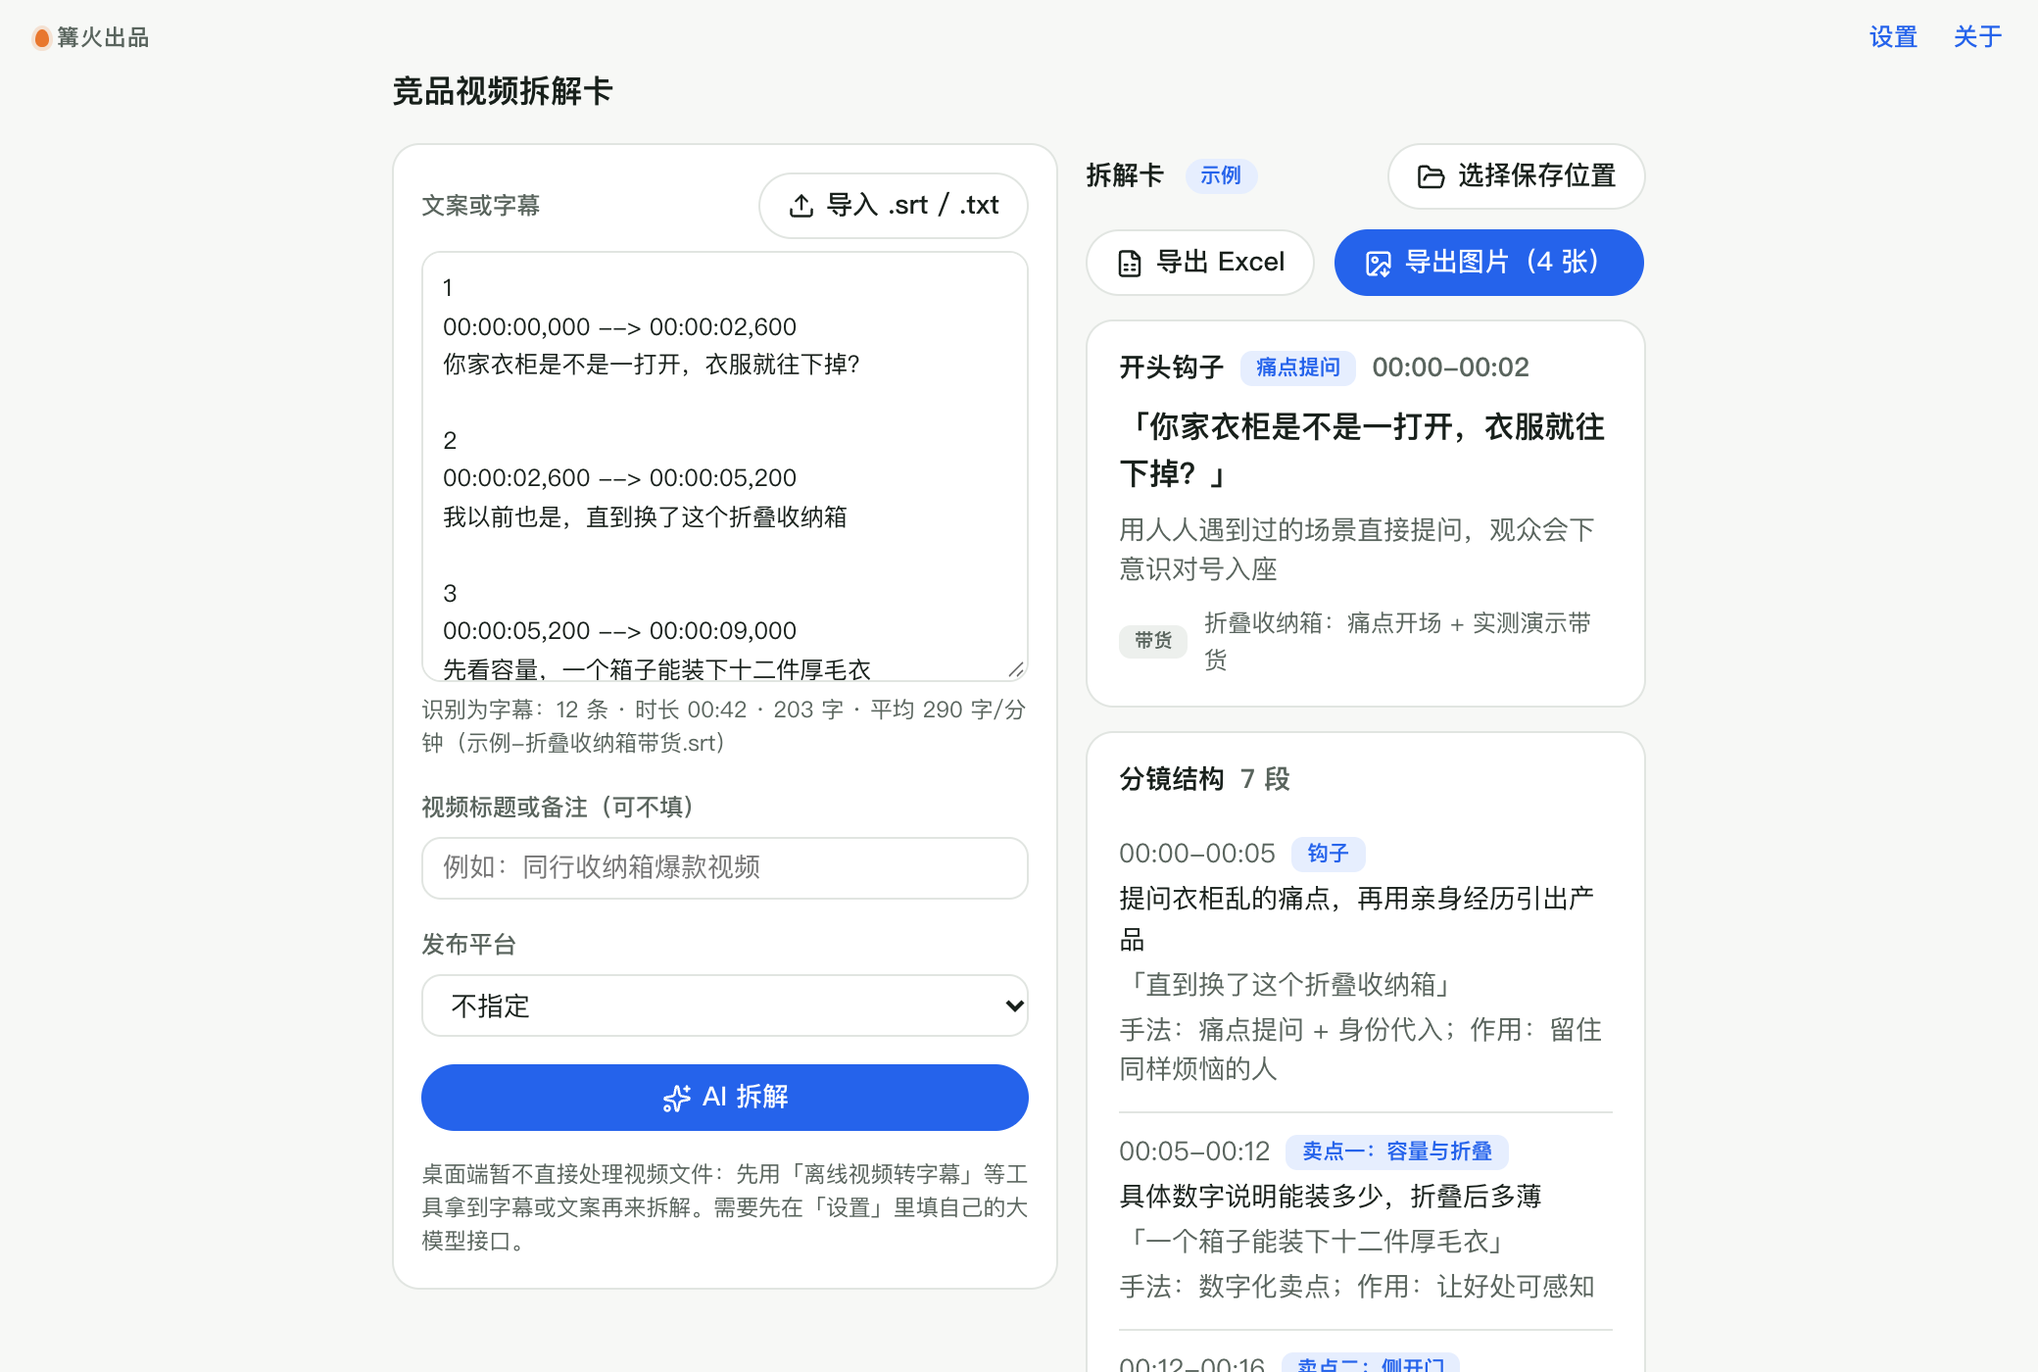
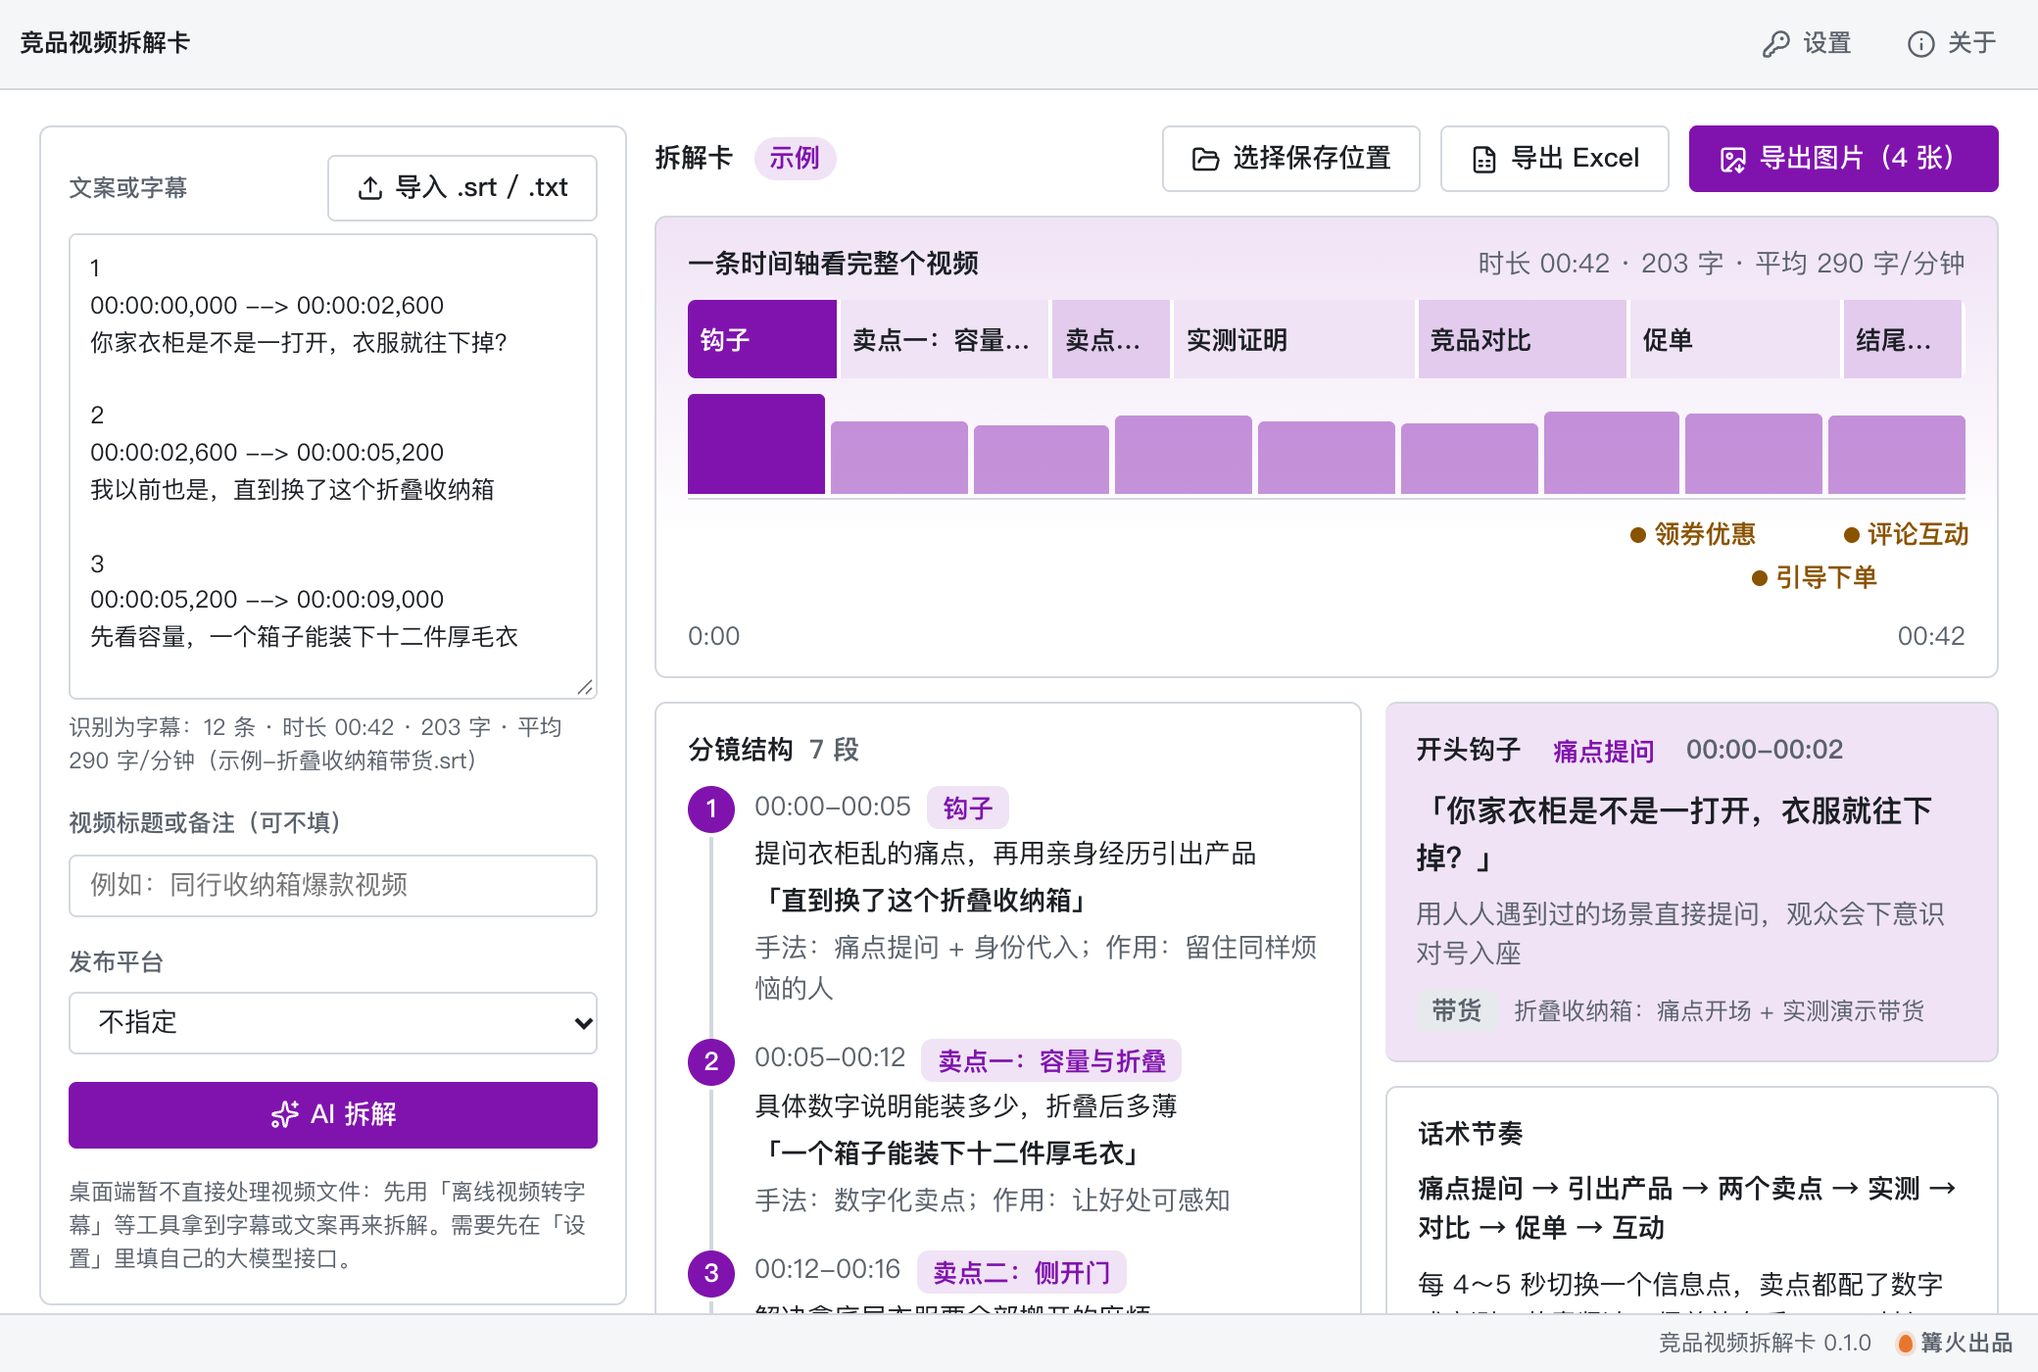
打磨界面：视频时间轴与分镜时间线，升至 0.2.0

diff --git a/src/tool/Main.tsx b/src/tool/Main.tsx
@@ -206,54 +206,60 @@ export function Main({ ctx }: { ctx?: Ctx }) {
         )}
         {!bd ? <div className="k-panel vb-empty k-muted">粘贴文案或导入字幕后，点「AI 拆解」</div> : (
           <>
-            <div className="k-panel vb-card vb-hook">
-              <div className="vb-h">开头钩子 {bd.hook.type && <span className="vb-tag">{bd.hook.type}</span>}{bd.hook.time && <span className="k-muted k-num">{bd.hook.time}</span>}</div>
-              <p className="vb-quote">「{bd.hook.text || '没有识别到明显的开头钩子'}」</p>
-              {bd.hook.why && <p className="k-muted">{bd.hook.why}</p>}
-              <div className="vb-title k-muted">{bd.genre && <span className="vb-tag soft">{bd.genre}</span>}{bd.title}</div>
-            </div>
+            <Timeline bd={bd} stats={result!.stats} />
 
-            <div className="k-panel vb-card">
-              <div className="vb-h">分镜结构 <span className="k-muted k-num">{bd.shots.length} 段</span></div>
-              <div className="vb-shots">
-                {bd.shots.map((s, i) => (
-                  <div key={i} className="vb-shot">
-                    <div className="vb-shot-head"><span className="k-num k-muted">{s.time || i + 1}</span>{s.stage && <span className="vb-tag">{s.stage}</span>}</div>
-                    <div>{s.content}</div>
-                    {s.line && <div className="k-muted">「{s.line}」</div>}
-                    {(s.technique || s.purpose) && <div className="k-muted">{[s.technique && `手法：${s.technique}`, s.purpose && `作用：${s.purpose}`].filter(Boolean).join('；')}</div>}
+            <div className="vb-cols">
+              <div className="k-panel vb-card vb-shotcard">
+                <div className="vb-h">分镜结构 <span className="k-muted k-num">{bd.shots.length} 段</span></div>
+                <ol className="vb-shots">
+                  {bd.shots.map((s, i) => (
+                    <li key={i} className="vb-shot">
+                      <span className="vb-dot" aria-hidden>{i + 1}</span>
+                      <div className="vb-shot-body">
+                        <div className="vb-shot-head"><span className="k-num k-muted">{s.time || `第 ${i + 1} 段`}</span>{s.stage && <span className="vb-tag">{s.stage}</span>}</div>
+                        <div>{s.content}</div>
+                        {s.line && <div className="vb-line">「{s.line}」</div>}
+                        {(s.technique || s.purpose) && <div className="k-muted">{[s.technique && `手法：${s.technique}`, s.purpose && `作用：${s.purpose}`].filter(Boolean).join('；')}</div>}
+                      </div>
+                    </li>
+                  ))}
+                </ol>
+              </div>
+
+              <div className="vb-side">
+                <div className="k-panel vb-card vb-hook">
+                  <div className="vb-h">开头钩子 {bd.hook.type && <span className="vb-tag">{bd.hook.type}</span>}{bd.hook.time && <span className="k-muted k-num">{bd.hook.time}</span>}</div>
+                  <p className="vb-quote">「{bd.hook.text || '没有识别到明显的开头钩子'}」</p>
+                  {bd.hook.why && <p className="k-muted">{bd.hook.why}</p>}
+                  <div className="vb-title k-muted">{bd.genre && <span className="vb-tag soft">{bd.genre}</span>}{bd.title}</div>
+                </div>
+
+                <div className="k-panel vb-card">
+                  <div className="vb-h">话术节奏</div>
+                  {bd.rhythm.structure && <p><b>{bd.rhythm.structure}</b></p>}
+                  {bd.rhythm.summary && <p>{bd.rhythm.summary}</p>}
+                  {bd.rhythm.notes.length > 0 && <ul className="vb-list">{bd.rhythm.notes.map((n, i) => <li key={i}>{n}</li>)}</ul>}
+                </div>
+
+                <div className="k-panel vb-card">
+                  <div className="vb-h">转化点 <span className="k-muted k-num">{bd.conversions.length} 处</span></div>
+                  {bd.conversions.length ? bd.conversions.map((c, i) => (
+                    <div key={i} className="vb-conv">
+                      <div><span className="vb-tag warm">{c.type || '转化'}</span> <span className="k-muted k-num">{c.time}</span></div>
+                      <div>「{c.line}」</div>
+                      {c.tip && <div className="k-muted">{c.tip}</div>}
+                    </div>
+                  )) : <p className="k-muted">没有明显的转化点</p>}
+                </div>
+
+                {bd.takeaways.length > 0 && (
+                  <div className="k-panel vb-card">
+                    <div className="vb-h">可以借鉴</div>
+                    <ol className="vb-list">{bd.takeaways.map((t, i) => <li key={i}>{t}</li>)}</ol>
                   </div>
-                ))}
+                )}
               </div>
             </div>
-
-            <div className="vb-two">
-              <div className="k-panel vb-card">
-                <div className="vb-h">话术节奏</div>
-                <div className="k-muted k-num">{result!.stats.durationMs ? `时长 ${fmtTime(result!.stats.durationMs)} · ${result!.stats.words} 字 · 平均 ${result!.stats.perMinute} 字/分钟` : `${result!.stats.words} 字 · 纯文案不计算语速`}</div>
-                {bd.rhythm.structure && <p><b>{bd.rhythm.structure}</b></p>}
-                {result!.stats.pace.length > 1 && <PaceBars pace={result!.stats.pace} />}
-                {bd.rhythm.summary && <p>{bd.rhythm.summary}</p>}
-                {bd.rhythm.notes.length > 0 && <ul className="vb-list">{bd.rhythm.notes.map((n, i) => <li key={i}>{n}</li>)}</ul>}
-              </div>
-              <div className="k-panel vb-card">
-                <div className="vb-h">转化点 <span className="k-muted k-num">{bd.conversions.length} 处</span></div>
-                {bd.conversions.length ? bd.conversions.map((c, i) => (
-                  <div key={i} className="vb-conv">
-                    <div><span className="vb-tag">{c.type || '转化'}</span> <span className="k-muted k-num">{c.time}</span></div>
-                    <div>「{c.line}」</div>
-                    {c.tip && <div className="k-muted">{c.tip}</div>}
-                  </div>
-                )) : <p className="k-muted">没有明显的转化点</p>}
-              </div>
-            </div>
-
-            {bd.takeaways.length > 0 && (
-              <div className="k-panel vb-card">
-                <div className="vb-h">可以借鉴</div>
-                <ol className="vb-list">{bd.takeaways.map((t, i) => <li key={i}>{t}</li>)}</ol>
-              </div>
-            )}
 
             <div className="vb-h">图片预览 <span className="k-muted k-num">{pages.length} 张 · 1080×1440</span></div>
             <div className="vb-grid">
@@ -277,6 +283,46 @@ export function Main({ ctx }: { ctx?: Ctx }) {
         </div>
       )}
     </div>
+  );
+}
+
+/** 把「00:05-00:12」这类时间段转成秒；读不出来返回 null */
+function parseRange(t: string): [number, number] | null {
+  const m = t.match(/(\d+):(\d+)(?::(\d+))?\s*[-–—~～]\s*(\d+):(\d+)(?::(\d+))?/);
+  if (!m) return null;
+  const sec = (a: string, b: string, c?: string) => (c == null ? Number(a) * 60 + Number(b) : Number(a) * 3600 + Number(b) * 60 + Number(c));
+  return [sec(m[1], m[2], m[3]), sec(m[4], m[5], m[6])];
+}
+
+/** 整条视频一条时间轴：上面是分镜段，中间是语速，下面标出转化点 */
+function Timeline({ bd, stats }: { bd: Breakdown; stats: Stats }) {
+  const segs = bd.shots.map((s) => parseRange(s.time));
+  if (!bd.shots.length || segs.some((x) => !x)) return null;
+  const ranges = segs as [number, number][];
+  const total = Math.max(1, stats.durationMs ? stats.durationMs / 1000 : 0, ...ranges.map((r) => r[1]));
+  const pct = (v: number) => `${Math.min(100, (v / total) * 100)}%`;
+  const pins = bd.conversions.map((c) => ({ c, at: parseRange(c.time)?.[0] })).filter((x): x is { c: Breakdown['conversions'][number]; at: number } => x.at != null);
+  return (
+    <section className="k-panel vb-tl" aria-label="视频时间轴">
+      <div className="vb-tl-hd">
+        <b>一条时间轴看完整个视频</b>
+        <span className="k-muted k-num">{stats.durationMs ? `时长 ${fmtTime(stats.durationMs)} · ${stats.words} 字 · 平均 ${stats.perMinute} 字/分钟` : `${stats.words} 字`}</span>
+      </div>
+      <div className="vb-tl-track">
+        {ranges.map(([from, to], i) => (
+          <div key={i} className={`vb-seg${i === 0 ? ' first' : ''}`} style={{ left: pct(from), width: pct(Math.max(0, to - from)) }} title={`${bd.shots[i].time} ${bd.shots[i].stage}`}>
+            <span>{bd.shots[i].stage || i + 1}</span>
+          </div>
+        ))}
+      </div>
+      {stats.pace.length > 1 && <PaceBars pace={stats.pace} />}
+      {pins.length > 0 && (
+        <div className="vb-tl-pins">
+          {pins.map(({ c, at }, i) => <span key={i} className={`vb-pin${at / total > 0.95 ? ' end' : ''}`} style={{ left: pct(at), top: (i % 2) * 22 }} title={`${c.time} ${c.line}`}><i />{c.type || '转化'}</span>)}
+        </div>
+      )}
+      <div className="vb-tl-axis k-num k-muted"><span>0:00</span><span>{fmtTime(total * 1000)}</span></div>
+    </section>
   );
 }
 

diff --git a/src/tool/tool.css b/src/tool/tool.css
@@ -1,10 +1,10 @@
 /* 竞品视频拆解卡：只用 kit.css 的变量，类名以 vb- 开头 */
-.vb { flex: 1; display: grid; grid-template-columns: minmax(260px, 340px) minmax(0, 1fr); gap: 14px; align-items: start; min-height: 0; }
+.vb { flex: 1; font-size: 13.5px; display: grid; grid-template-columns: minmax(250px, 300px) minmax(0, 1fr); gap: 14px; align-items: start; min-height: 0; }
 .vb-hover .vb-edit { outline: 2px dashed var(--primary); outline-offset: 2px; }
 .vb-edit { position: sticky; top: 0; display: flex; flex-direction: column; gap: 14px; padding: 14px; max-height: 100%; }
 .vb-grow { flex: 1; min-height: 0; }
 .vb-row { display: flex; align-items: center; gap: 10px; flex-wrap: wrap; }
-.vb-text { min-height: 220px; height: 40vh; resize: vertical; font-size: .9em; font-family: inherit; line-height: 1.55; }
+.vb-text { min-height: 160px; height: 34vh; resize: vertical; font-size: .9em; font-family: inherit; line-height: 1.55; }
 .vb-go { justify-content: center; }
 .vb-view { display: flex; flex-direction: column; gap: 12px; min-width: 0; }
 .vb-dir { max-width: min(300px, 100%); }
@@ -18,9 +18,6 @@
 .vb-title { display: flex; align-items: center; gap: 8px; font-size: .9em; }
 .vb-tag { display: inline-block; font-size: .8em; font-weight: 600; padding: 1px 8px; border-radius: 6px; background: var(--primary-soft); color: var(--primary); white-space: nowrap; }
 .vb-tag.soft { background: var(--chip); color: var(--muted); }
-.vb-shots { display: grid; }
-.vb-shot { display: grid; gap: 3px; padding: 10px 0; border-top: 1px solid var(--line); line-height: 1.5; }
-.vb-shot:first-child { border-top: 0; }
 .vb-shot-head { display: flex; align-items: center; gap: 8px; flex-wrap: wrap; }
 .vb-two { display: grid; grid-template-columns: repeat(auto-fit, minmax(260px, 1fr)); gap: 12px; align-items: start; }
 .vb-list { margin: 0; padding-left: 1.3em; display: grid; gap: 4px; line-height: 1.5; }
@@ -40,3 +37,31 @@
 .vb-zoom-box canvas { height: min(72vh, 900px); width: auto; aspect-ratio: 3 / 4; border-radius: var(--radius); border: 1px solid var(--line); }
 .vb-zoom-bar { justify-content: center; }
 @media (max-width: 760px) { .vb { grid-template-columns: 1fr; } .vb-edit { position: static; } }
+
+/* 时间轴：分镜段 + 语速 + 转化点 */
+.vb-tl { padding: 14px 16px 10px; display: grid; gap: 8px; background: linear-gradient(180deg, var(--primary-soft), var(--surface) 70%); }
+.vb-tl-hd { display: flex; align-items: baseline; justify-content: space-between; gap: 10px; flex-wrap: wrap; }
+.vb-tl-track { position: relative; height: 40px; border-radius: var(--radius); background: var(--chip); overflow: hidden; }
+.vb-seg { position: absolute; top: 0; bottom: 0; display: flex; align-items: center; padding: 0 6px; border-right: 2px solid var(--surface); background: color-mix(in srgb, var(--primary) 22%, var(--surface)); color: var(--ink); font-size: 13px; font-weight: 600; overflow: hidden; }
+.vb-seg:nth-child(even) { background: color-mix(in srgb, var(--primary) 12%, var(--surface)); }
+.vb-seg.first { background: var(--primary); color: var(--on-primary); }
+.vb-seg span { overflow: hidden; text-overflow: ellipsis; white-space: nowrap; }
+.vb-tl .vb-pace { height: 54px; }
+.vb-tl-pins { position: relative; height: 44px; }
+.vb-pin { position: absolute; top: 0; display: inline-flex; align-items: center; gap: 4px; white-space: nowrap; font-size: 13px; font-weight: 600; color: var(--warn); transform: translateX(0); }
+.vb-pin i { width: 8px; height: 8px; border-radius: 50%; background: var(--warn); }
+.vb-pin.end { transform: translateX(-100%); flex-direction: row-reverse; }
+.vb-tl-axis { display: flex; justify-content: space-between; font-size: 13px; }
+
+.vb-cols { display: grid; grid-template-columns: minmax(0, 1.15fr) minmax(0, 1fr); gap: 12px; align-items: start; }
+.vb-side { display: grid; gap: 12px; min-width: 0; }
+.vb-shots { list-style: none; margin: 0; padding: 0; display: grid; }
+.vb-shot { display: grid; grid-template-columns: 24px minmax(0, 1fr); gap: 10px; padding: 0; border: 0; position: relative; }
+.vb-shot:not(:last-child)::before { content: ""; position: absolute; left: 11px; top: 26px; bottom: 0; width: 2px; background: var(--line); }
+.vb-dot { width: 24px; height: 24px; border-radius: 50%; background: var(--primary); color: var(--on-primary); display: grid; place-items: center; font-size: 13px; font-weight: 700; }
+.vb-shot-body { display: grid; gap: 3px; padding-bottom: 14px; line-height: 1.55; min-width: 0; }
+.vb-line { font-weight: 600; }
+.vb-tag.warm { background: var(--warn-soft); color: var(--warn); }
+.vb-tag, .vb-badge { font-size: 13px; }
+.vb-hook { border-left: 0; background: var(--primary-soft); }
+@media (max-width: 900px) { .vb-cols { grid-template-columns: 1fr; } }

diff --git a/src/tool/core.ts b/src/tool/core.ts
@@ -198,6 +198,7 @@ export function buildMessages(s: Script, stats: Stats, opts: AnalyzeOpts) {
   const meta = [
     opts.note.trim() ? `视频标题或备注：${opts.note.trim()}` : '',
     platform ? `发布平台：${platform}` : '',
+    // check-zh: 忽略（写给大模型的提示词，字段名必须与解析代码一致）
     s.kind === 'srt' ? `输入是带时间轴的字幕，时长 ${fmtTime(s.durationMs ?? 0)}，每行前面是时间段` : '输入是没有时间轴的文案，所有 time 字段填空字符串',
     stats.perMinute ? `本地统计的平均语速：约 ${stats.perMinute} 字/分钟` : '',
     truncated ? `正文太长，只给出前 ${MAX_CHARS} 字左右` : '',
@@ -205,6 +206,7 @@ export function buildMessages(s: Script, stats: Stats, opts: AnalyzeOpts) {
   return [
     {
       role: 'system' as const,
+      // check-zh: 忽略（写给大模型的提示词，字段名必须与解析代码一致）
       content: `你是短视频内容分析师，帮创作者拆解同类视频的结构和话术。只依据给出的文案或字幕分析，不要编造文案里没有的内容；画面无法从文字得知，visual 只写建议。
 分镜按内容自然分段，一般 4～12 段，按时间顺序，时间段尽量用字幕里的时间。没有明显转化点时 conversions 返回空数组。
 只输出 JSON，不要任何其他文字，格式：

diff --git a/README.md b/README.md
@@ -27,7 +27,7 @@
 1. 打开应用，在右上角「设置」里填自己的大模型接口地址、密钥和模型名（兼容 OpenAI 接口格式）。密钥只存在本机。
 2. 在左边粘贴文案，或点「导入 .srt / .txt」、把文件拖进窗口。带时间轴的 .srt 能拆出每段时间和语速，纯文案不计算语速。
 3. 可填视频标题或备注，可选发布平台（不指定 / 抖音 / 快手 / 视频号 / 小红书 / B 站），点「AI 拆解」。
-4. 右边出现拆解卡：开头钩子、分镜结构、话术节奏（含语速柱状图）、转化点、可以借鉴。首次打开显示的是带「示例」标记的示例结果。
+4. 右边出现拆解卡：最上面是一条时间轴（分镜段、语速柱状图、转化点标记，只有带时间轴的字幕才有），下面是分镜结构、开头钩子、话术节奏、转化点、可以借鉴。首次打开显示的是带「示例」标记的示例结果。
 5. 点「导出 Excel」得到 .xlsx 表格，点「导出图片」得到若干张 1080×1440 的 PNG 卡片；可先「选择保存位置」。
 
 限制：正文超过 12000 字时只拆解前面部分，界面会提示；拆解只依据文字，画面部分只给建议。

diff --git a/CHANGELOG.md b/CHANGELOG.md
@@ -1,5 +1,12 @@
 # 更新记录
 
+## 0.2.0
+
+- 界面重做：顶部新增一条视频时间轴，把分镜段、语速柱状图、转化点标在同一条轴上。
+- 分镜结构改为带序号的竖向时间线，开头钩子、话术节奏、转化点、可以借鉴放在右侧栏。
+- 版式改为 b，主色改为 #8013AE，正文字号保持 13.5px。
+- 上架文案重写，补充使用场景。
+
 ## 0.1.0
 
 - 首个版本。
